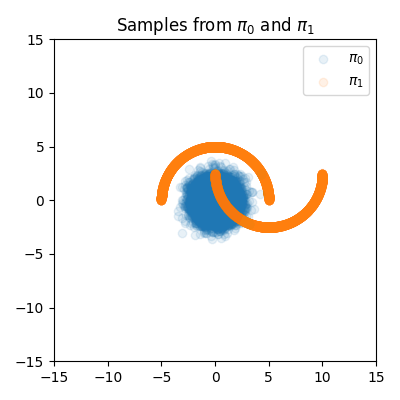
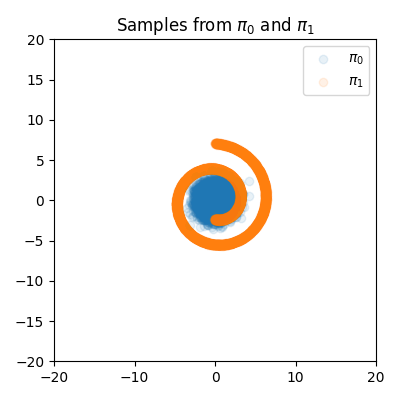
Best rank degree for each dataset

diff --git a/tt_rectified_flow/tt_rectified_flow.py b/tt_rectified_flow/tt_rectified_flow.py
@@ -6,7 +6,7 @@ TODO
     3. Use Swissroll 2D data            DONE
     4. Use Circles Data                 DONE
     5. Use Blob Data                    DONE
-    6. Use Half Moon Data               In-Progress
+    6. Use Half Moon Data               DONE
 """
 import random
 
@@ -24,6 +24,38 @@ SEED = 42
 torch.manual_seed(SEED)
 random.seed(SEED)
 np.random.seed(SEED)
+
+
+def get_target_samples(dataset_name: str, n_samples: int) -> torch.Tensor:
+    # Gaussian Mixture and multivariate normal
+    target_samples = None
+    if dataset_name == "gm":
+        target_mix = Categorical(torch.ones(n_comp))
+        t = 2 * torch.pi * torch.arange(n_comp) / n_comp
+        mu_target = D * torch.stack([-torch.sin(t), torch.cos(t)], axis=1)  # FIXME, stack doesn't get axis param
+        cov_target = var * torch.stack([torch.eye(2) for i in range(n_comp)])
+        target_comp = MultivariateNormal(mu_target, cov_target)
+        target_model = MixtureSameFamily(target_mix, target_comp)
+        target_samples = target_model.sample(torch.Size((n_samples,)))
+    elif dataset_name == "mvn":
+        target_model = MultivariateNormal(D * torch.tensor([1.0, -1.0]),
+                                          torch.tensor([[1.0, 0.9], [0.9, 1.0]]))
+        target_samples = target_model.sample(torch.Size((n_samples,)))
+    elif dataset_name == "swissroll":
+        # Swissroll 2d
+        target_samples = torch.tensor(make_swiss_roll(n_samples=n_samples, noise=1e-1)[0][:, [0, 2]] / 2.0)
+    elif dataset_name == "circles":
+        # circles
+        target_samples = torch.tensor(make_circles(n_samples=n_samples, shuffle=True, factor=0.9, noise=0.05)[0] * 5.0)
+    elif dataset_name == "blobs":
+        # blobs
+        target_samples = torch.tensor(make_blobs(n_samples=n_samples, n_features=2)[0])
+    elif dataset_name == "moons":
+        # moons
+        target_samples = torch.tensor(make_moons(n_samples=n_samples, shuffle=True)[0] * 5.0)
+    else:
+        raise ValueError(f"Unsupported dataset : {dataset_name}")
+    return target_samples
 
 
 ######################## Sample ODE #########################
@@ -97,7 +129,7 @@ def sample_ode(z0: torch.Tensor, N: int = None) -> torch.Tensor:
 ########################## Plot results #########################
 
 
-def draw_plot(model, z0, z1, N, tt_rank):
+def draw_plot(model, z0, z1, N, tt_rank, title):
     from scipy.integrate import odeint
     traj = sample_ode(z0, N)
     # traj = torch.cat([torch.from_numpy(odeint(v, z0[i], torch.linspace(0., 1., steps=N), tfirst=False)) for i in range(z0.shape[0])], axis=0)
@@ -124,7 +156,7 @@ def draw_plot(model, z0, z1, N, tt_rank):
     ax3.set_ylim(*limits)
     ax3.set_title("Generated")
 
-    fig.suptitle('Distribution Samples')
+    fig.suptitle(title)
 
     ax2.scatter(
         z1[:, 0].cpu().numpy(),
@@ -175,7 +207,8 @@ def draw_plot(model, z0, z1, N, tt_rank):
     # plt.title("Distribution")
     # plt.tight_layout()
     # print(f"Saving gen vs actual samples")
-    plt.savefig(f"generated_vs_actual_samples_rank_{tt_rank}_deg_{degree}.png")
+    print("Saving results in image format with naming convention : samples_{dataset_name}_{rank}_{degree}.png")
+    plt.savefig(f"samples_{dataset_name}_{tt_rank}_{degree}.png")
 
     # traj_particles = torch.stack(traj)
     plt.figure(figsize=(4, 4))
@@ -188,44 +221,28 @@ def draw_plot(model, z0, z1, N, tt_rank):
     plt.savefig("trajectory.png")
 
 
+DATASETS_FULL_NAMES = {"gm": "Gaussian Mixtures", "mvn": "Multivariate Normal", "swissroll": "Swissroll 2D",
+                       "circles": "Concentric Circles", "blobs": "3 Cluster Blobs","moons":"Half Moons"}
 ################  Preliminaries  ##############################
 if __name__ == '__main__':
 
     D = 10.0  # 10.0
-    limits = (-15, 15)
+    limits = (-20, 20)
     var: float = 0.3
     n_comp: int = 2
     n_samples: int = 10_000
     d: int = 2
-
+    dataset_name = "swissroll"
     # check if cuda is available
     print(f"Is cuda available => {torch.cuda.is_available()}")
     # we use a standard Gaussian as prior
+    # Init Model and Samples
     mu_prior = torch.zeros(d)
     cov_prior = torch.eye(d)
     initial_model = MultivariateNormal(mu_prior, cov_prior)
-
-    # the target distribution is a Gaussian mixture
-    target_mix = Categorical(torch.ones(n_comp))
-    t = 2 * torch.pi * torch.arange(n_comp) / n_comp
-    mu_target = D * torch.stack([-torch.sin(t), torch.cos(t)], axis=1)  # FIXME, stack doesn't get axis param
-    cov_target = var * torch.stack([torch.eye(2) for i in range(n_comp)])
-    target_comp = MultivariateNormal(mu_target, cov_target)
-    target_model = MixtureSameFamily(target_mix, target_comp)
-    # target_model = MultivariateNormal(D * torch.tensor([1.0, -1.0]), torch.eye(d))
-
     samples_0 = initial_model.sample(torch.Size((n_samples,)))
-    # samples from Gaussian Mixture
-    # samples_1 = target_model.sample(torch.Size((n_samples,)))
-    # samples from 2D swissroll
-    # Same code from
-    # 1 ) https://github.com/Jmkernes/Diffusion/blob/main/diffusion/ddpm/main.py#L44
-    # 2 ) https://github.com/MaximeVandegar/Papers-in-100-Lines-of-Code/blob/main/Deep_Unsupervised_Learning_using_Nonequilibrium_Thermodynamics/diffusion_models.py#L12
-    # 3 ) https://github.com/mbaddar1/Diffusion/blob/281e453d66d413976bc069c75d736c6df3c4a9de/diffusion/ddpm/main.py#L50
-    # samples_1 = torch.tensor(make_swiss_roll(n_samples=n_samples, noise=1e-1)[0][:, [0, 2]] / 2.0)
-    # samples_1 = torch.tensor(make_circles(n_samples=n_samples, shuffle=True, factor=0.9,noise=0.05)[0]*5.0)
-    # samples_1 = torch.tensor(make_blobs(n_samples=n_samples, n_features=2)[0])
-    samples_1 = torch.tensor(make_moons(n_samples=n_samples, shuffle=True)[0]*5.0)
+    # Target Model and Samples
+    samples_1 = get_target_samples(dataset_name=dataset_name, n_samples=n_samples)
     # plot the samples
 
     plt.figure(figsize=(4, 4))
@@ -293,8 +310,9 @@ if __name__ == '__main__':
 
     print(f"Starting tt fitting")
     # TT parameters
-    tt_rank = 8
-    degree = 20
+    tt_rank = 6
+    degree = 30
+
     degrees = [degree] * (d + 1)  # hotfix by charles that made the GMM work
     ranks = [1] + [tt_rank] * d + [1]
 
@@ -334,14 +352,15 @@ if __name__ == '__main__':
         )
         ETT.tt.set_core(d)
     N = 1000
-    draw_plot(ETTs, initial_model.sample(torch.Size((n_samples,))), samples_1, N, tt_rank=tt_rank)
+    draw_plot(ETTs, initial_model.sample(torch.Size((n_samples,))), samples_1, N, tt_rank=tt_rank,
+              title=DATASETS_FULL_NAMES[dataset_name])
 
     # Calculate Sinkhorn losses
 
     # sample_ref_1 = target_model.sample(torch.Size((n_samples,)))  # .cuda()
     # sample_ref_2 = target_model.sample(torch.Size((n_samples,)))  # .cuda()
-    sample_ref_1 = torch.tensor(make_swiss_roll(n_samples=n_samples, noise=1e-1)[0][:, [0, 2]] / 2.0)
-    sample_ref_2 = torch.tensor(make_swiss_roll(n_samples=n_samples, noise=1e-1)[0][:, [0, 2]] / 2.0)
+    sample_ref_1 = get_target_samples(dataset_name=dataset_name, n_samples=n_samples)
+    sample_ref_2 = get_target_samples(dataset_name=dataset_name, n_samples=n_samples)
 
     # check statistics for close samples
     mean_0 = torch.mean(samples_1, dim=0)
@@ -363,6 +382,7 @@ if __name__ == '__main__':
     L_gen_1 = loss(z1_, sample_ref_1)
     L_gen_2 = loss(z1_, sample_ref_2)
 
+    print(f"dataset = {dataset_name}")
     print(f"rank = {tt_rank}")
     print(f"deg = {degree}")
     print(f"Ref sinkhorn = {L_ref}")
@@ -370,52 +390,15 @@ if __name__ == '__main__':
 
 """
 Quick Experiments results
----
-i) 
+------------
 Model : TT-Recflow with legendre poly 
-Dataset : Swissroll 2D 
 Opt : Fixed Rank TT-ALS
-Results: 
-Numerically
-Ref sinkhorn divergence = 0.003
-Best results so far
-Rank        Deg         Sinkhorn
-6           14          0.08
-6           15          0.09
-6           16          0.06 *
-------------------------------------------
-ii)
-Model : TT-Recflow with legendre poly 
-Dataset : Circles
-Opt : Fixed Rank TT-ALS
-Numerically
-Ref sinkhorn divergence = 0.01
-Rank        Deg         Sinkhorn
-6           10          0.76
-6           15          0.63
-7           10          0.74 *
------------------------------------------
-iii)
-Model : TT-Recflow with legendre poly 
-Dataset : Blobs (no. centres = 3)
-Opt : Fixed Rank TT-ALS
-Numerically
-Ref sinkhorn divergence = 0.01
-Rank        Deg         Sinkhorn
-8           20          11.2
-8           25          10.11
-8           30          9.4 *
-8           35          10.42
-8           40          13.77
-iv) 
-Model : TT-Recflow with legendre poly 
-Dataset : Moons 
-Opt : Fixed Rank TT-ALS
-Numerically
-Ref sinkhorn divergence = 0.005
-Rank        Deg         Sinkhorn
-6           20          3.99 *
-7           10          4.12
-7           20          4.12
-8           20          4.17
+
+Dataset             Rank            Degree          SH div. Gen.                SH. div. Ref        Comments
+GM                  7               30              0.163                       0.0001
+MVN                 8               10              0.056                       0.0005
+swissroll_2d        7               25              0.36                        0.003
+circles             6               10              0.067                       0.001
+blob                6               35              27                          23.4                ??
+moons               6               20              0.30                        4.2e-20
 """
